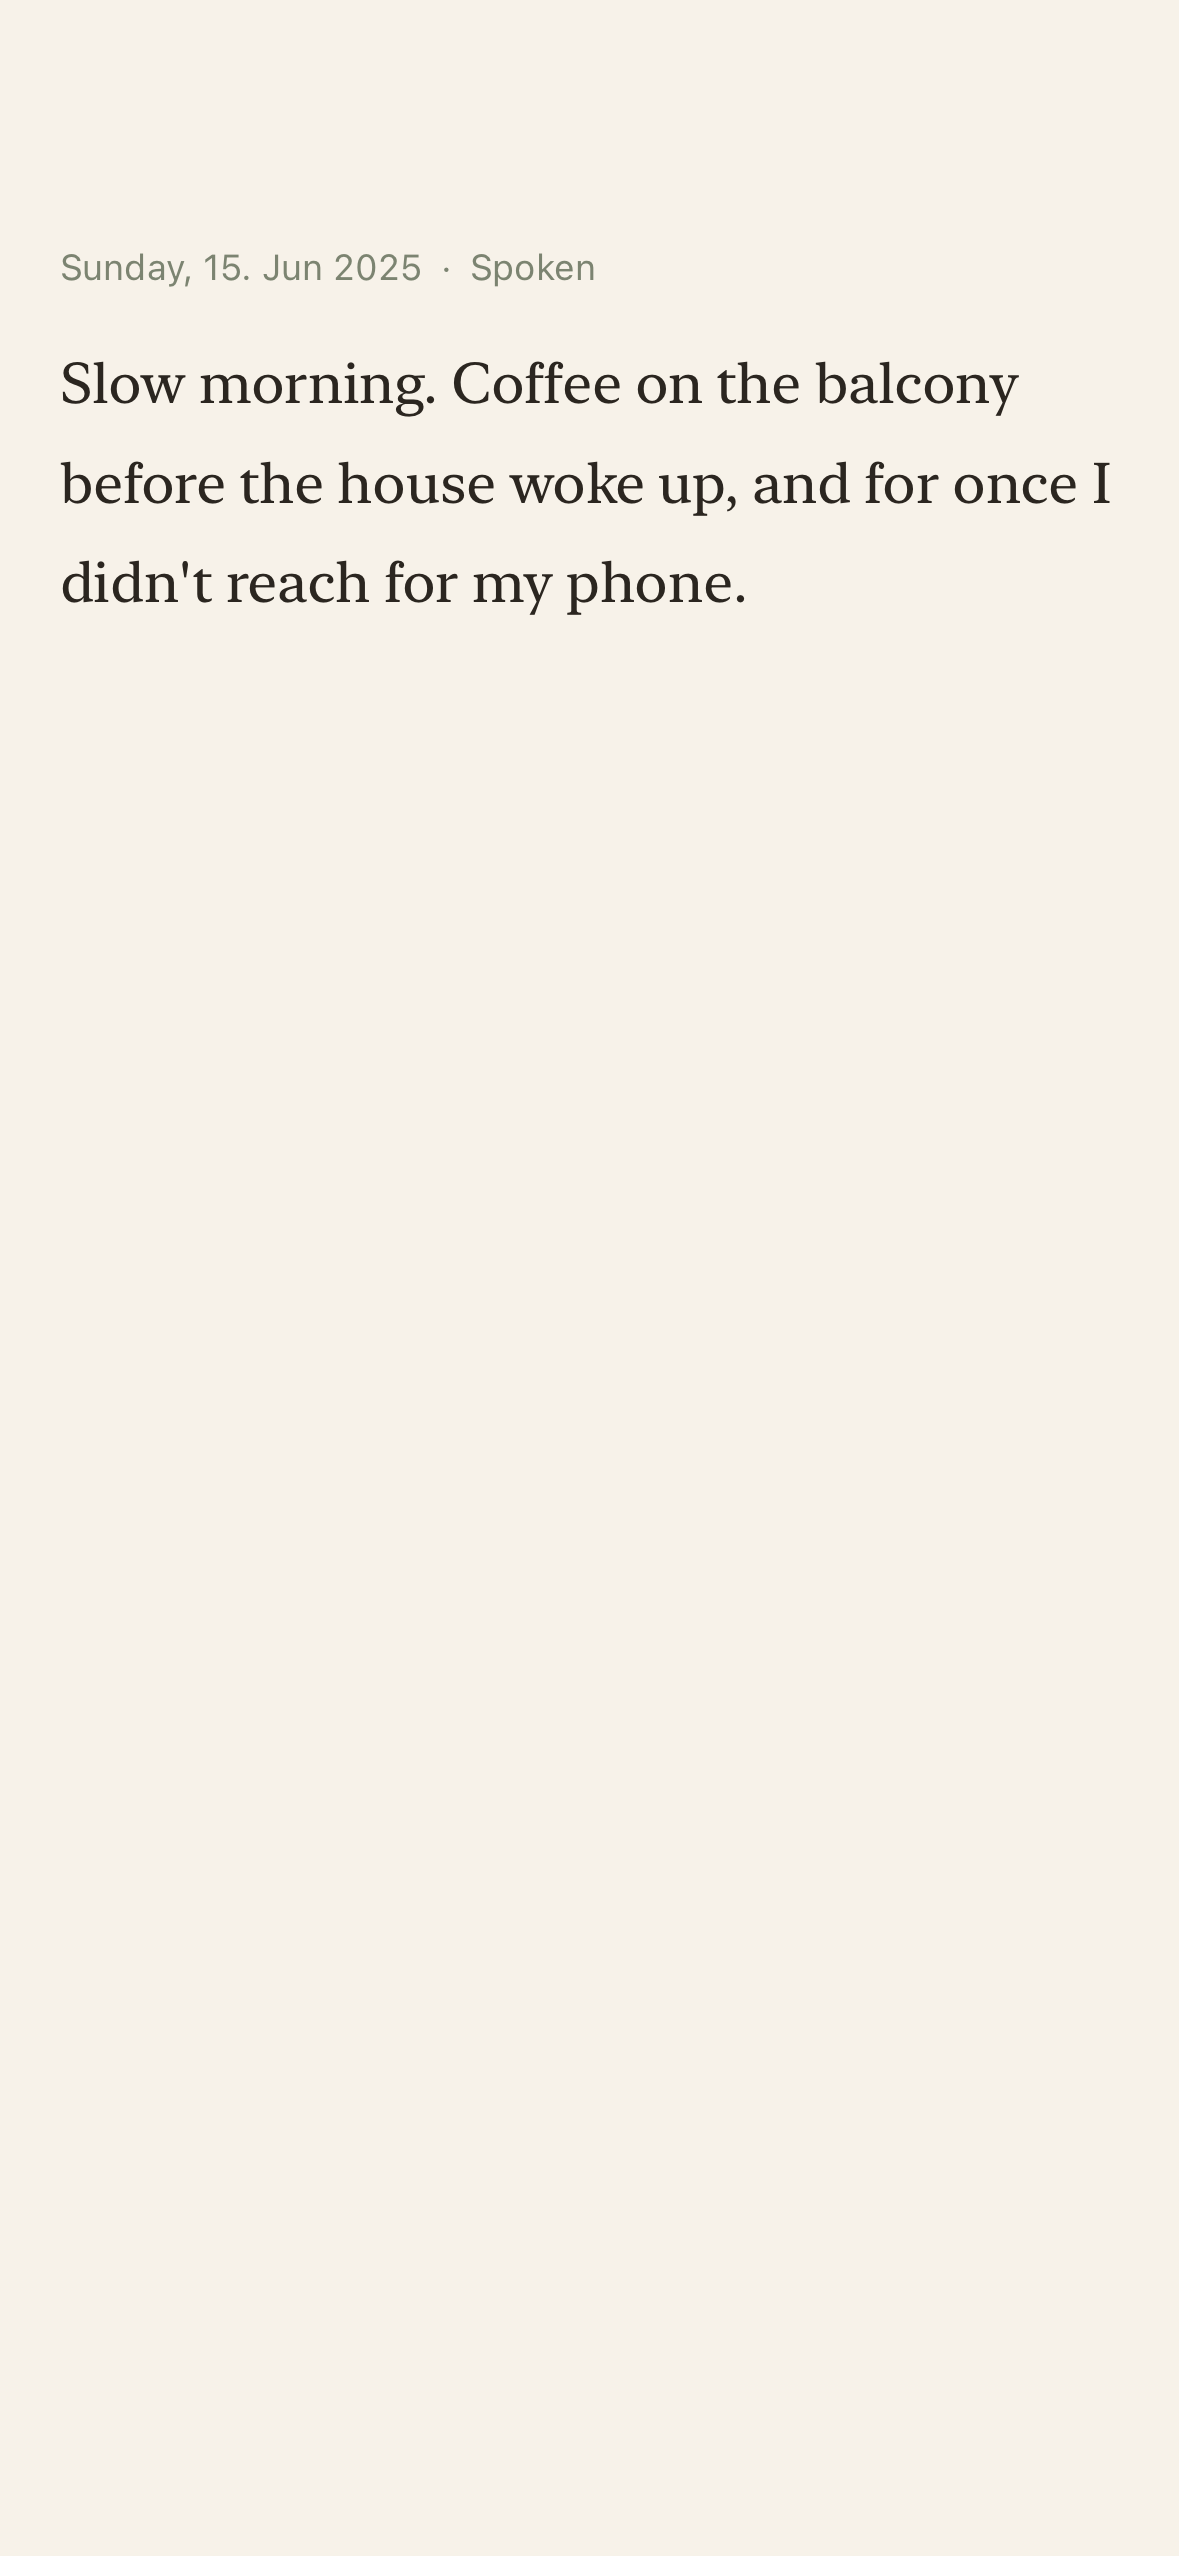
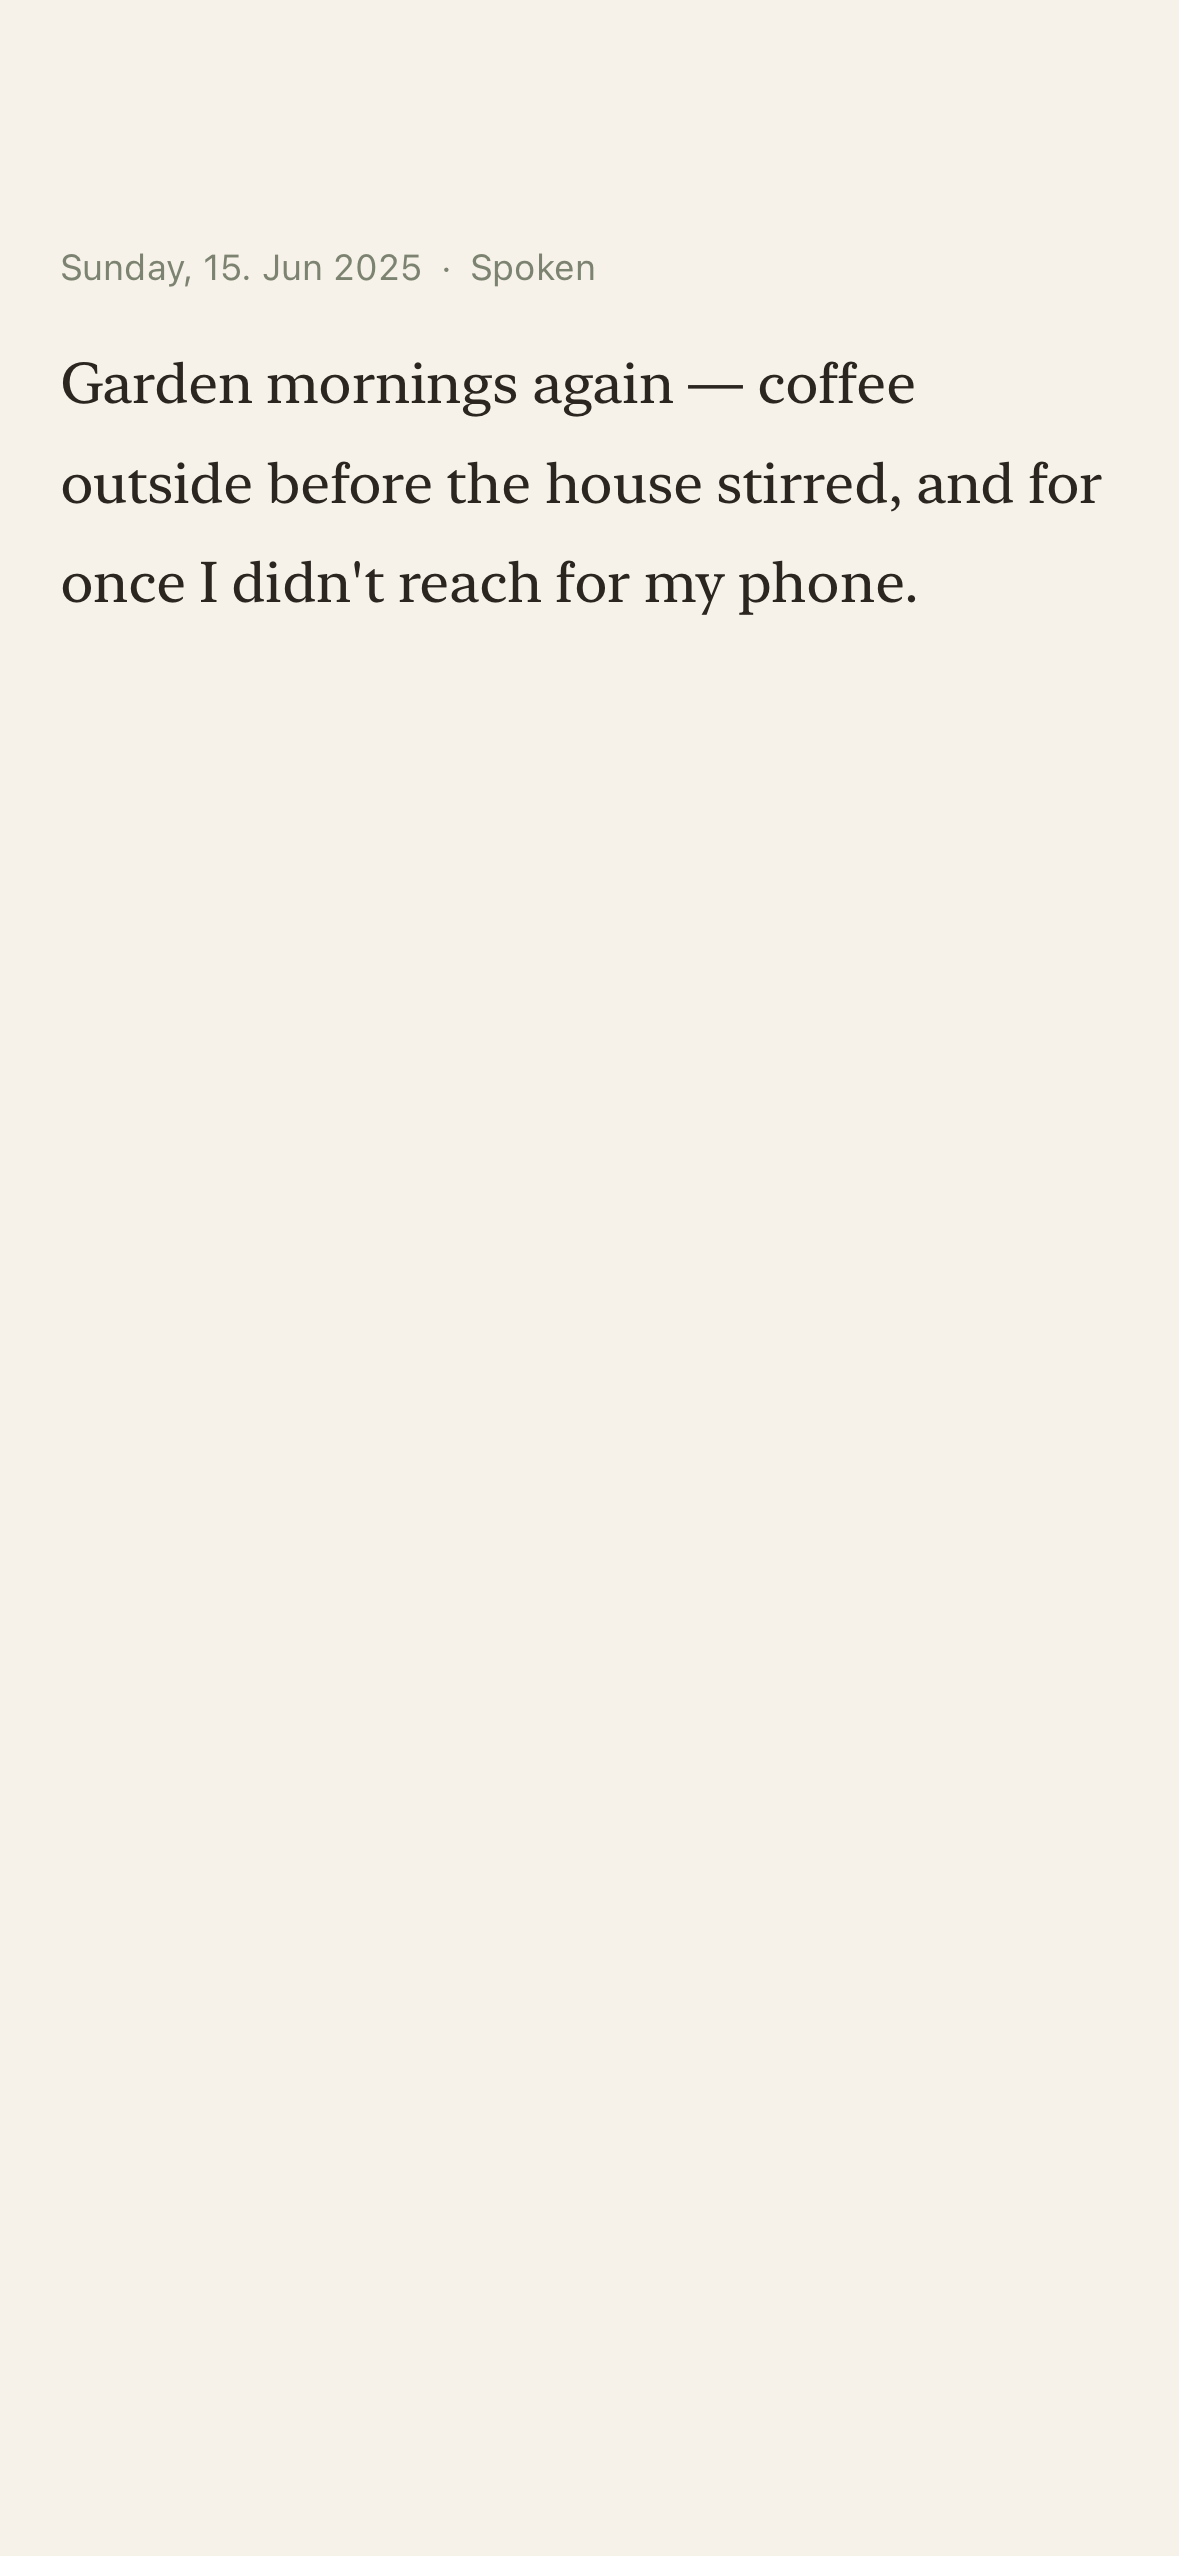
feat(ReflectKit): stopword filter for the deterministic theme fallback
The weekly-review fallback ranked words by document frequency, so generic
fillers that clear the 5-letter length gate (coming, really, things,
about, ...) could surface as the week's theme. Adds a stopword set to
WeeklyReviewPipeline.tokens so only meaningful words become themes;
genuine themes (garden, mornings, quiet) still rank.

Updates the screenshot fixture so the recurring theme sits in each
entry's first sentence (the review summarizes to the opening sentence),
and regenerates the timeline/entry-detail/weekly-review shots — the
weekly review now reads 'garden' across 4 entries and 'quiet' across 2,
each with working citations.

Test: filler words never become themes while a real word still does.
Core 124 -> 125 tests; full just ci green.

Changed region(s): [[0.0611, 0.1236, 0.9466, 0.2473]]

diff --git a/Sources/ReflectKit/WeeklyReviewPipeline.swift b/Sources/ReflectKit/WeeklyReviewPipeline.swift
@@ -101,14 +101,36 @@ public struct WeeklyReviewPipeline: Sendable {
             .map { $0 }
     }
 
-    /// Distinct lowercased word stems of a summary, long enough to carry meaning.
-    /// Distinct-per-entry so one entry repeating a word counts once toward frequency.
+    /// Distinct lowercased words of a summary, long enough to carry meaning and not
+    /// a generic filler. Distinct-per-entry so one entry repeating a word counts
+    /// once toward frequency.
     private static func tokens(in text: String) -> Set<String> {
         Set(
             text.lowercased()
                 .split(whereSeparator: { !$0.isLetter })
                 .map(String.init)
-                .filter { $0.count >= minThemeWordLength }
+                .filter { $0.count >= minThemeWordLength && !stopwords.contains($0) }
         )
     }
+
+    /// Words that clear the length filter but are too generic to be a theme.
+    /// Without this, fillers like "coming", "really", or "things" surface as the
+    /// week's theme in the deterministic fallback.
+    static let stopwords: Set<String> = [
+        "about", "above", "after", "again", "against", "almost", "along", "already",
+        "although", "always", "among", "another", "anything", "around", "because",
+        "becomes", "before", "behind", "being", "below", "between", "beyond",
+        "coming", "could", "doing", "during", "either", "enough", "especially",
+        "every", "everyone", "everything", "getting", "going", "gonna", "having",
+        "however", "instead", "itself", "least", "little", "maybe", "might", "more",
+        "most", "much", "myself", "never", "often", "other", "others", "ourselves",
+        "perhaps", "pretty", "probably", "quite", "rather", "really", "right",
+        "seems", "should", "since", "somehow", "someone", "something", "sometimes",
+        "still", "their", "theirs", "themselves", "there", "these", "thing",
+        "things", "think", "thinking", "those", "though", "through", "today",
+        "together", "tomorrow", "tonight", "toward", "towards", "under", "until",
+        "usually", "very", "what", "whatever", "when", "where", "whether", "which",
+        "while", "whole", "will", "with", "within", "without", "would", "yeah",
+        "yesterday", "your", "yours", "yourself",
+    ]
 }

diff --git a/Tests/ReflectKitTests/WeeklyReviewPipelineTests.swift b/Tests/ReflectKitTests/WeeklyReviewPipelineTests.swift
@@ -218,4 +218,21 @@ struct WeeklyReviewPipelineTests {
         // "deadline"/"pressure" appear in only one entry and must not be themes.
         #expect(!themes.contains { $0.theme == "deadline" })
     }
+
+    @Test("common filler words never become themes, but real words do")
+    func stopwordsAreNotThemes() {
+        let context = WeekContext(
+            weekStart: Date(timeIntervalSince1970: 0),
+            entries: [
+                Week.entry(Week.idA, 1, "I kept coming back to it, really, thinking about the garden."),
+                Week.entry(Week.idB, 2, "Coming back again, really, something about that garden."),
+            ]
+        )
+
+        let themes = WeeklyReviewPipeline.recurringThemes(in: context)
+
+        let names = Set(themes.map(\.theme))
+        #expect(names.isDisjoint(with: ["coming", "really", "thinking", "about", "again", "something"]))
+        #expect(names.contains("garden"), "a meaningful recurring word still surfaces")
+    }
 }

diff --git a/App/Tests/ScreenshotTests.swift b/App/Tests/ScreenshotTests.swift
@@ -126,11 +126,13 @@ final class ScreenshotTests: XCTestCase {
         )
     }
 
+    // The recurring theme ("garden") sits in each entry's first sentence, because
+    // the weekly review summarizes entries to their opening sentence.
     static let sampleEntries: [Entry] = [
-        entry(0, "Slow morning. Coffee on the balcony before the house woke up, and for once I didn't reach for my phone."),
-        entry(1, "The garden is finally coming back. Mornings out there feel like the calmest part of the day."),
-        entry(2, "Long stretch of work, but I noticed I kept coming back to the same worry about the move."),
-        entry(3, "Walked the long way home. Quiet streets, and that garden two doors down is somehow always blooming."),
+        entry(0, "Garden mornings again — coffee outside before the house stirred, and for once I didn't reach for my phone."),
+        entry(1, "Another slow garden morning. The light came in sideways and I just sat with it for a while."),
+        entry(2, "Work pulled hard today, but my mind kept drifting back to the garden and how quiet it is out there."),
+        entry(3, "Quiet evening walk past the blooming garden two doors down. Everything felt a little softer afterward."),
     ]
 
     private static func makeStore() -> EncryptedFileJournalStore {